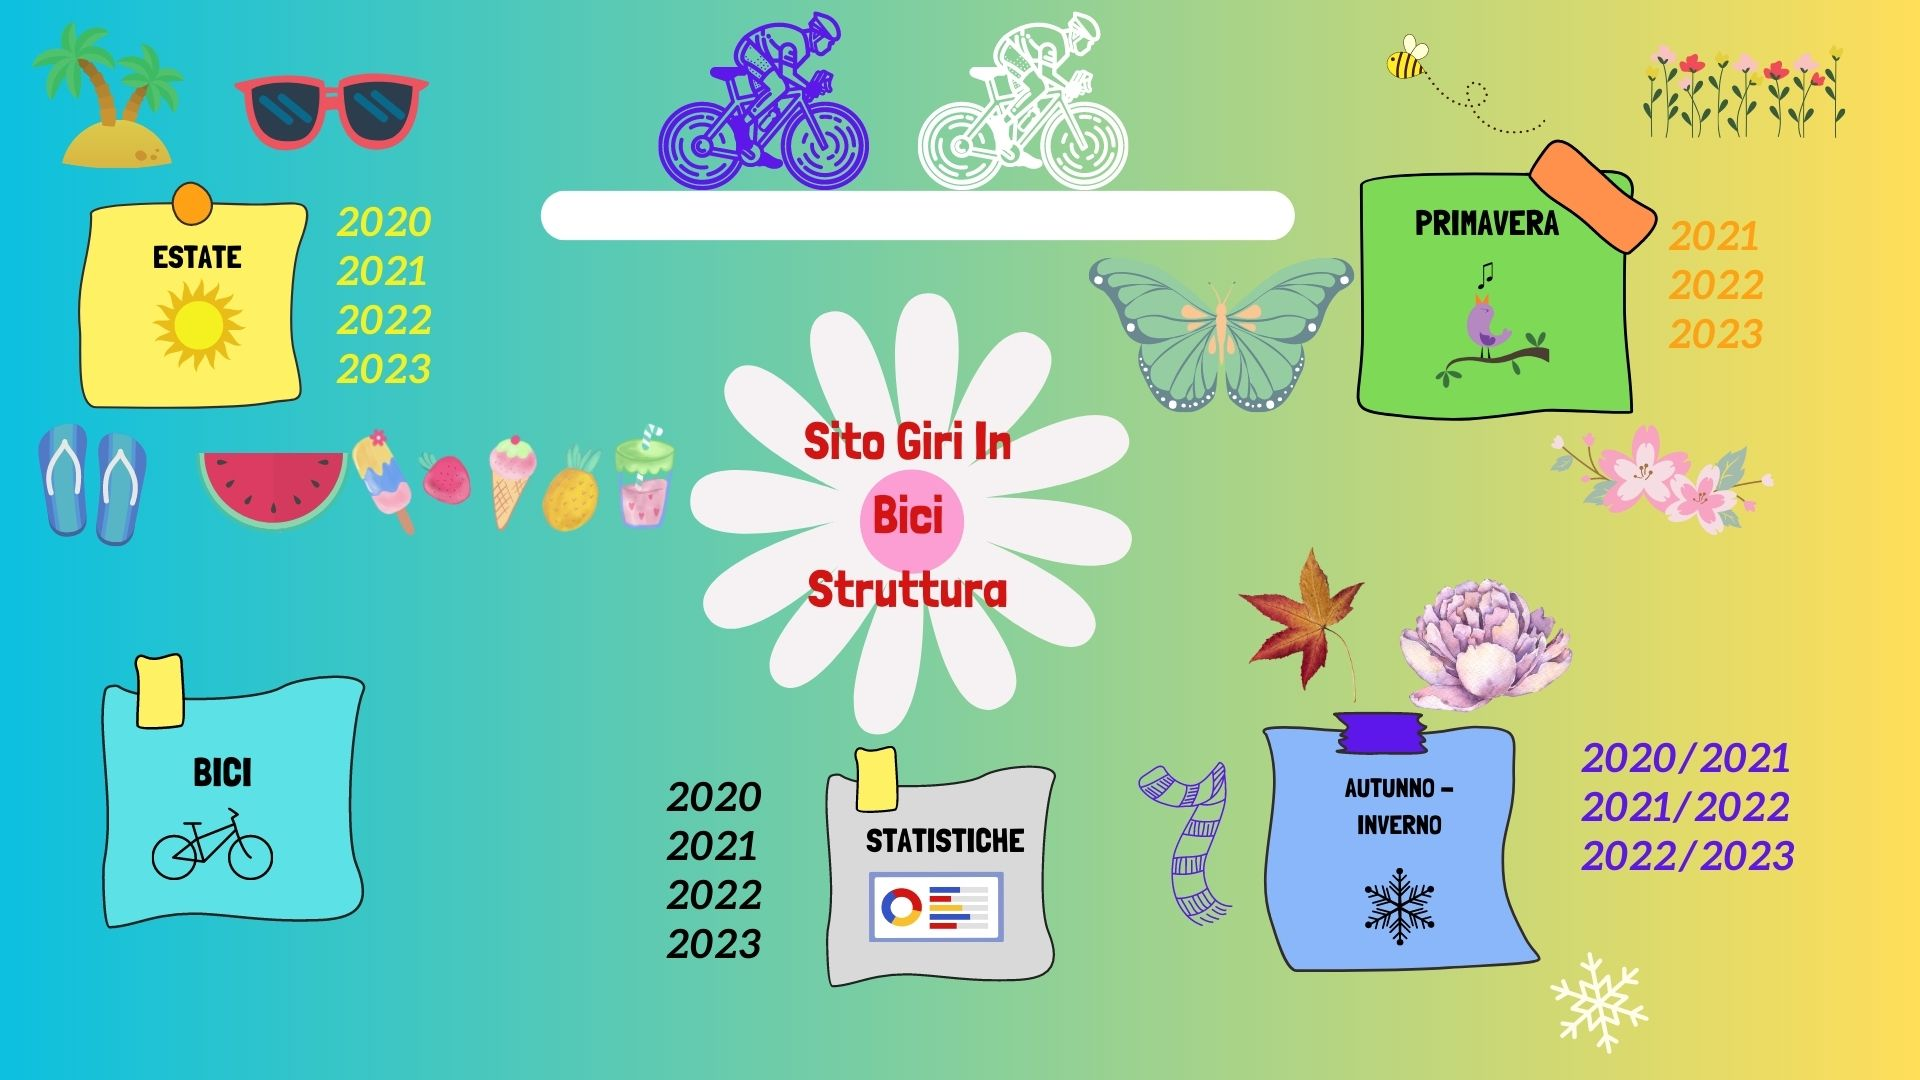
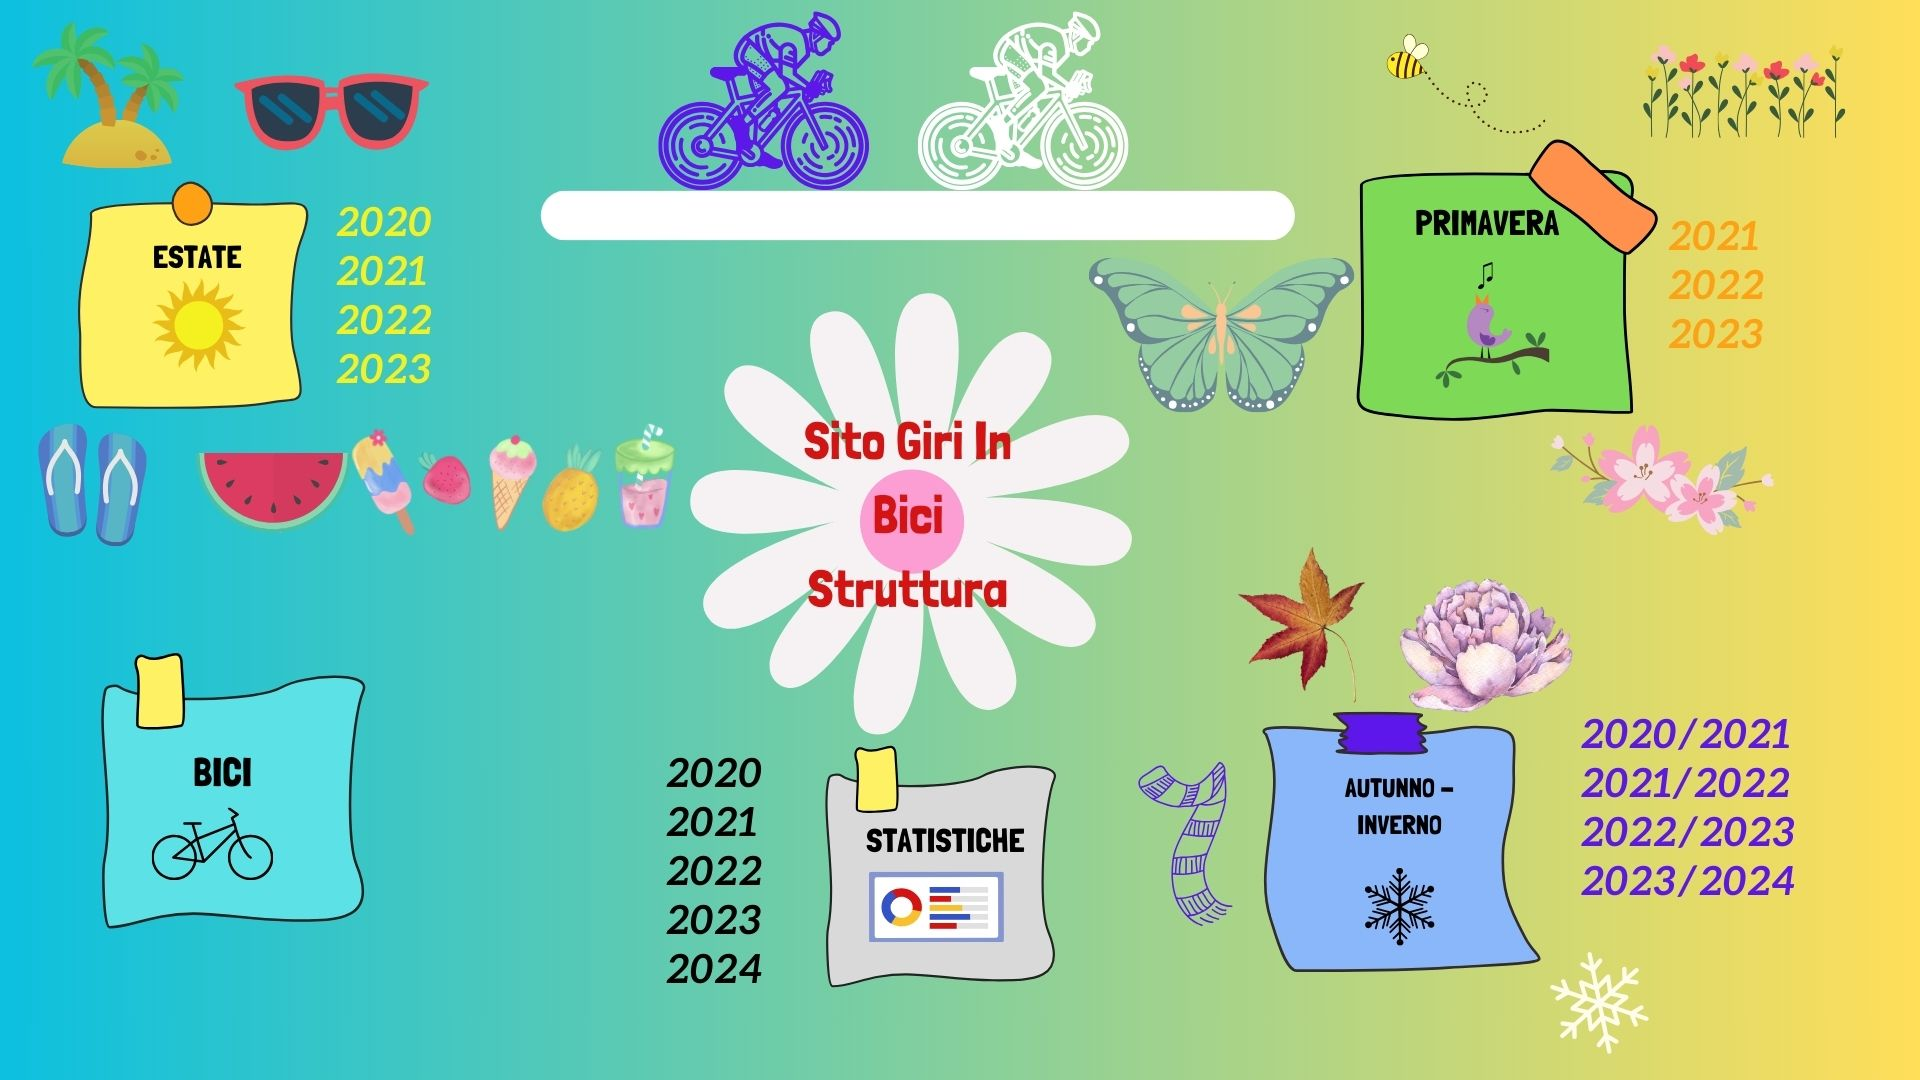
Add files via upload

Changed region(s): [[0.8125, 0.6417, 0.9375, 0.8556], [0.3438, 0.7028, 0.4062, 0.9167]]

diff --git a/Statistiche/Statistiche2023.html b/Statistiche/Statistiche2023.html
@@ -47,55 +47,55 @@
         <tr>
             <td>Gennaio</td>
             <td>127</td>
-            <td>5,92%</td>
+            <td>5,74%</td>
         </tr>
 
         <tr>
             <td>Febbraio</td>
             <td>148</td>
-            <td>6,90%</td>
+            <td>6,68%</td>
         </tr>
 
         <tr>
             <td>Marzo</td>
             <td>194</td>
-            <td>9,04%</td>
+            <td>8,76%</td>
         </tr>
 
         <tr>
             <td>Aprile</td>
             <td>103</td>
-            <td>4,80%</td>
+            <td>4,65%</td>
         </tr>
 
         <tr>
             <td>Maggio</td>
             <td>242</td>
-            <td>11,28%</td>
+            <td>10,93%</td>
         </tr>
 
         <tr>
             <td>Giugno</td>
             <td>265</td>
-            <td>12,35%</td>
+            <td>11,97%</td>
         </tr>
 
         <tr>
             <td>Luglio</td>
             <td>422</td>
-            <td>19,66%</td>
+            <td>19,06%</td>
         </tr>
 
         <tr>
             <td>Agosto</td>
             <td>426</td>
-            <td>19,85%</td>
+            <td>19,24%</td>
         </tr>
 
         <tr>
             <td>Settembre</td>
-            <td>219</td>
-            <td>10,21%</td>
+            <td>287</td>
+            <td>12,96%</td>
         </tr>
 
     </table>
@@ -106,10 +106,10 @@
 
     <br>
     <div class="colore">
-        <p>totale km 2.146
+        <p>totale km 2.214
             <img src="../Icone/traguardo.png">
         </p>
-        <p>km medi percorsi 59,61 km </p>
+        <p>km medi percorsi 59,84 km </p>
     </div>
     <br>
 

diff --git a/Statistiche.html b/Statistiche.html
@@ -83,7 +83,7 @@
             </td>
 
             <td>
-                22,30%
+                22,10%
             </td>
 
         </tr>
@@ -99,7 +99,7 @@
             </td>
 
             <td>
-                23,70%
+                23,60%
             </td>
         </tr>
 
@@ -113,7 +113,7 @@
             </td>
 
             <td>
-                34,50%
+                34,30%
             </td>
 
         </tr>
@@ -124,11 +124,11 @@
             </td>
 
             <td>
-                2.146
+                2.214
             </td>
 
             <td>
-                19,50%
+                20,00%
             </td>
 
         </tr>
@@ -158,11 +158,11 @@
 
     <div class="colore">
         <p>
-            totale km fatti 11.024
+            totale km fatti 11.092
             <img src="Icone/traguardo.png">
         </p>
 
-        <p>km medi percorsi 68,90 km </p>
+        <p>km medi percorsi 68,89 km </p>
 
     </div>
 

diff --git a/Estate/Estate2023.html b/Estate/Estate2023.html
@@ -225,15 +225,28 @@
             <td>km</td>
         </tr>
 
+        <tr>
+            <td>12 settembre</td>
+            <td>19</td>
+            <td><a
+                    href="https://www.komoot.com/it-it/tour/1306113506?ref=wtd&share_token=avYsR71aEn48bDgY25p0Rgp4imRTf5mw84rOxR1gHGfORYmAJG">
+                    Varmo + Ariis</a></td>
+            <td>68</td>
+            <td>km</td>
+        </tr>
+
     </table>
 
-
     <br>
+    <img class="immagine" src="Immagini/Estate20231.jpg">
+    <br>
+    <br>
+
     <div class="colore">
-        <p> totale km 1.129
+        <p> totale km 1.197
             <img src="../Icone/traguardo.png">
         </p>
-        <p>km medi percorsi 62,72
+        <p>km medi percorsi 63,00
         </p>
     </div>
 </body>

diff --git a/Giri.html b/Giri.html
@@ -242,11 +242,11 @@
     <br>
     <div class="colore">
         <p>
-            totale km fatti 11.024
+            totale km fatti 11.092
             <img src="Icone/traguardo.png">
         </p>
 
-        <p>km medi percorsi 68,90 km </p>
+        <p>km medi percorsi 68,89 km </p>
 
     </div>
 

diff --git a/Estate.html b/Estate.html
@@ -104,7 +104,7 @@
                 </td>
     
                 <td>
-                    1.129
+                    1.197
                 </td>
             </tr>
 
